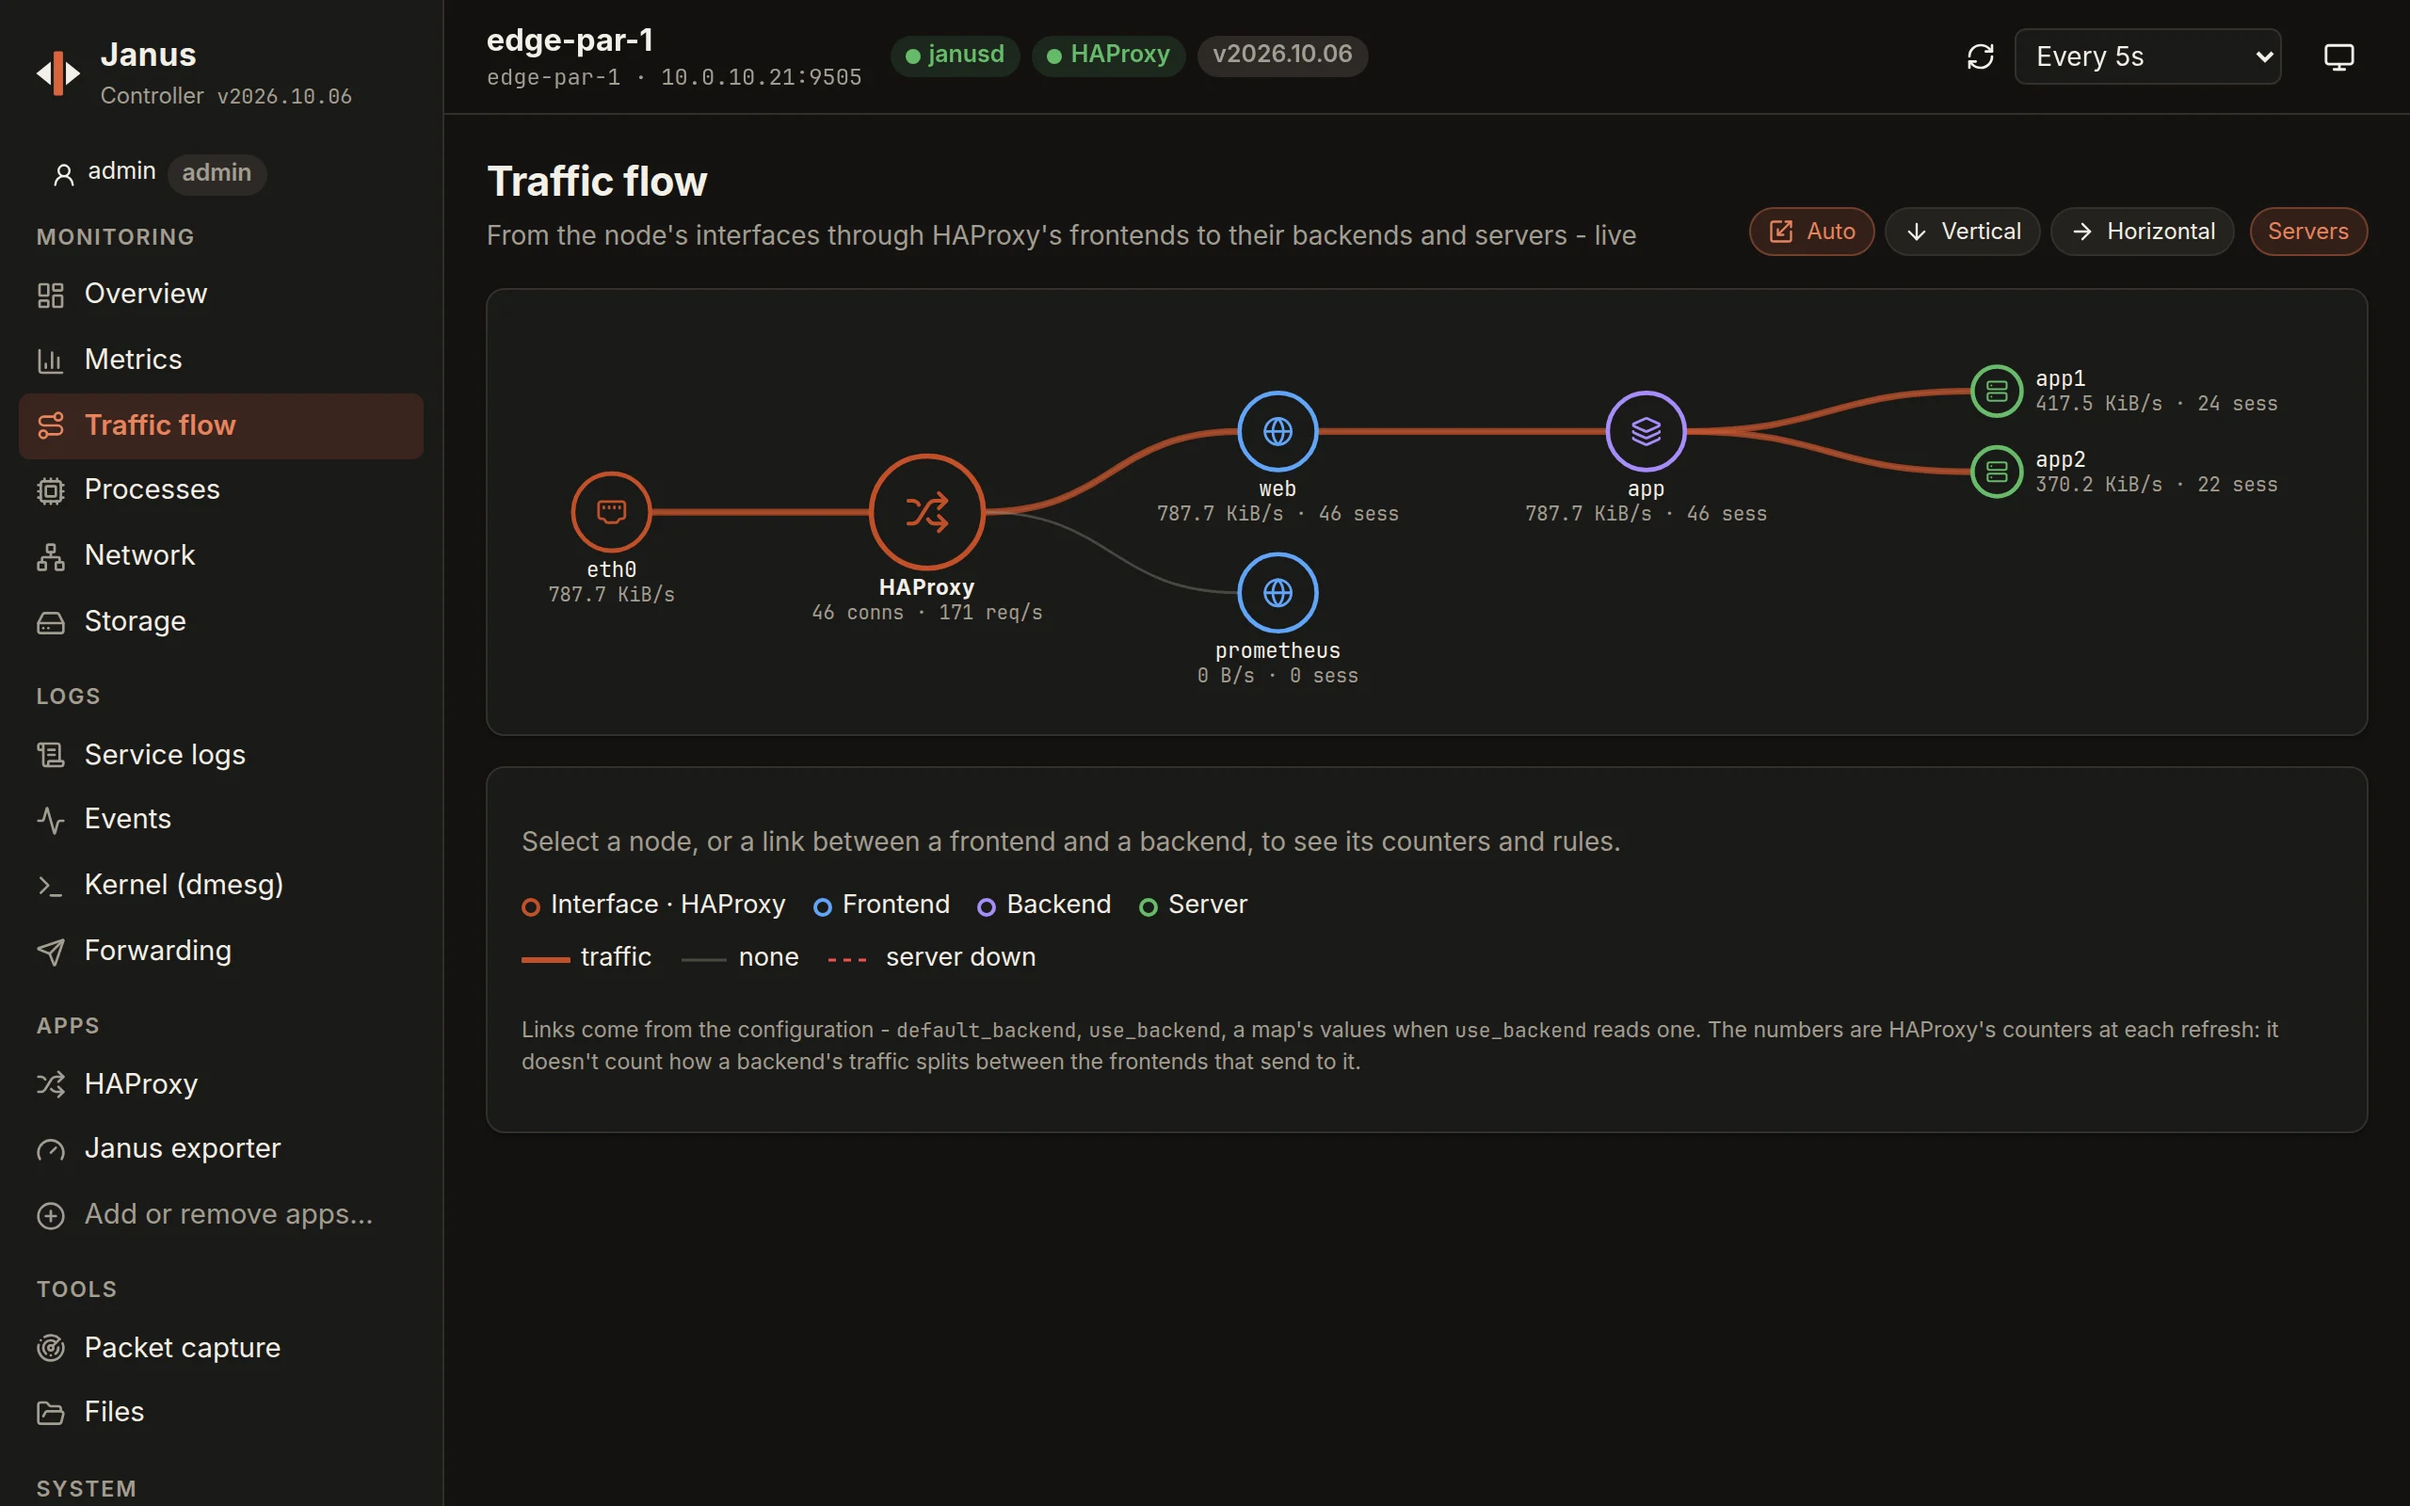
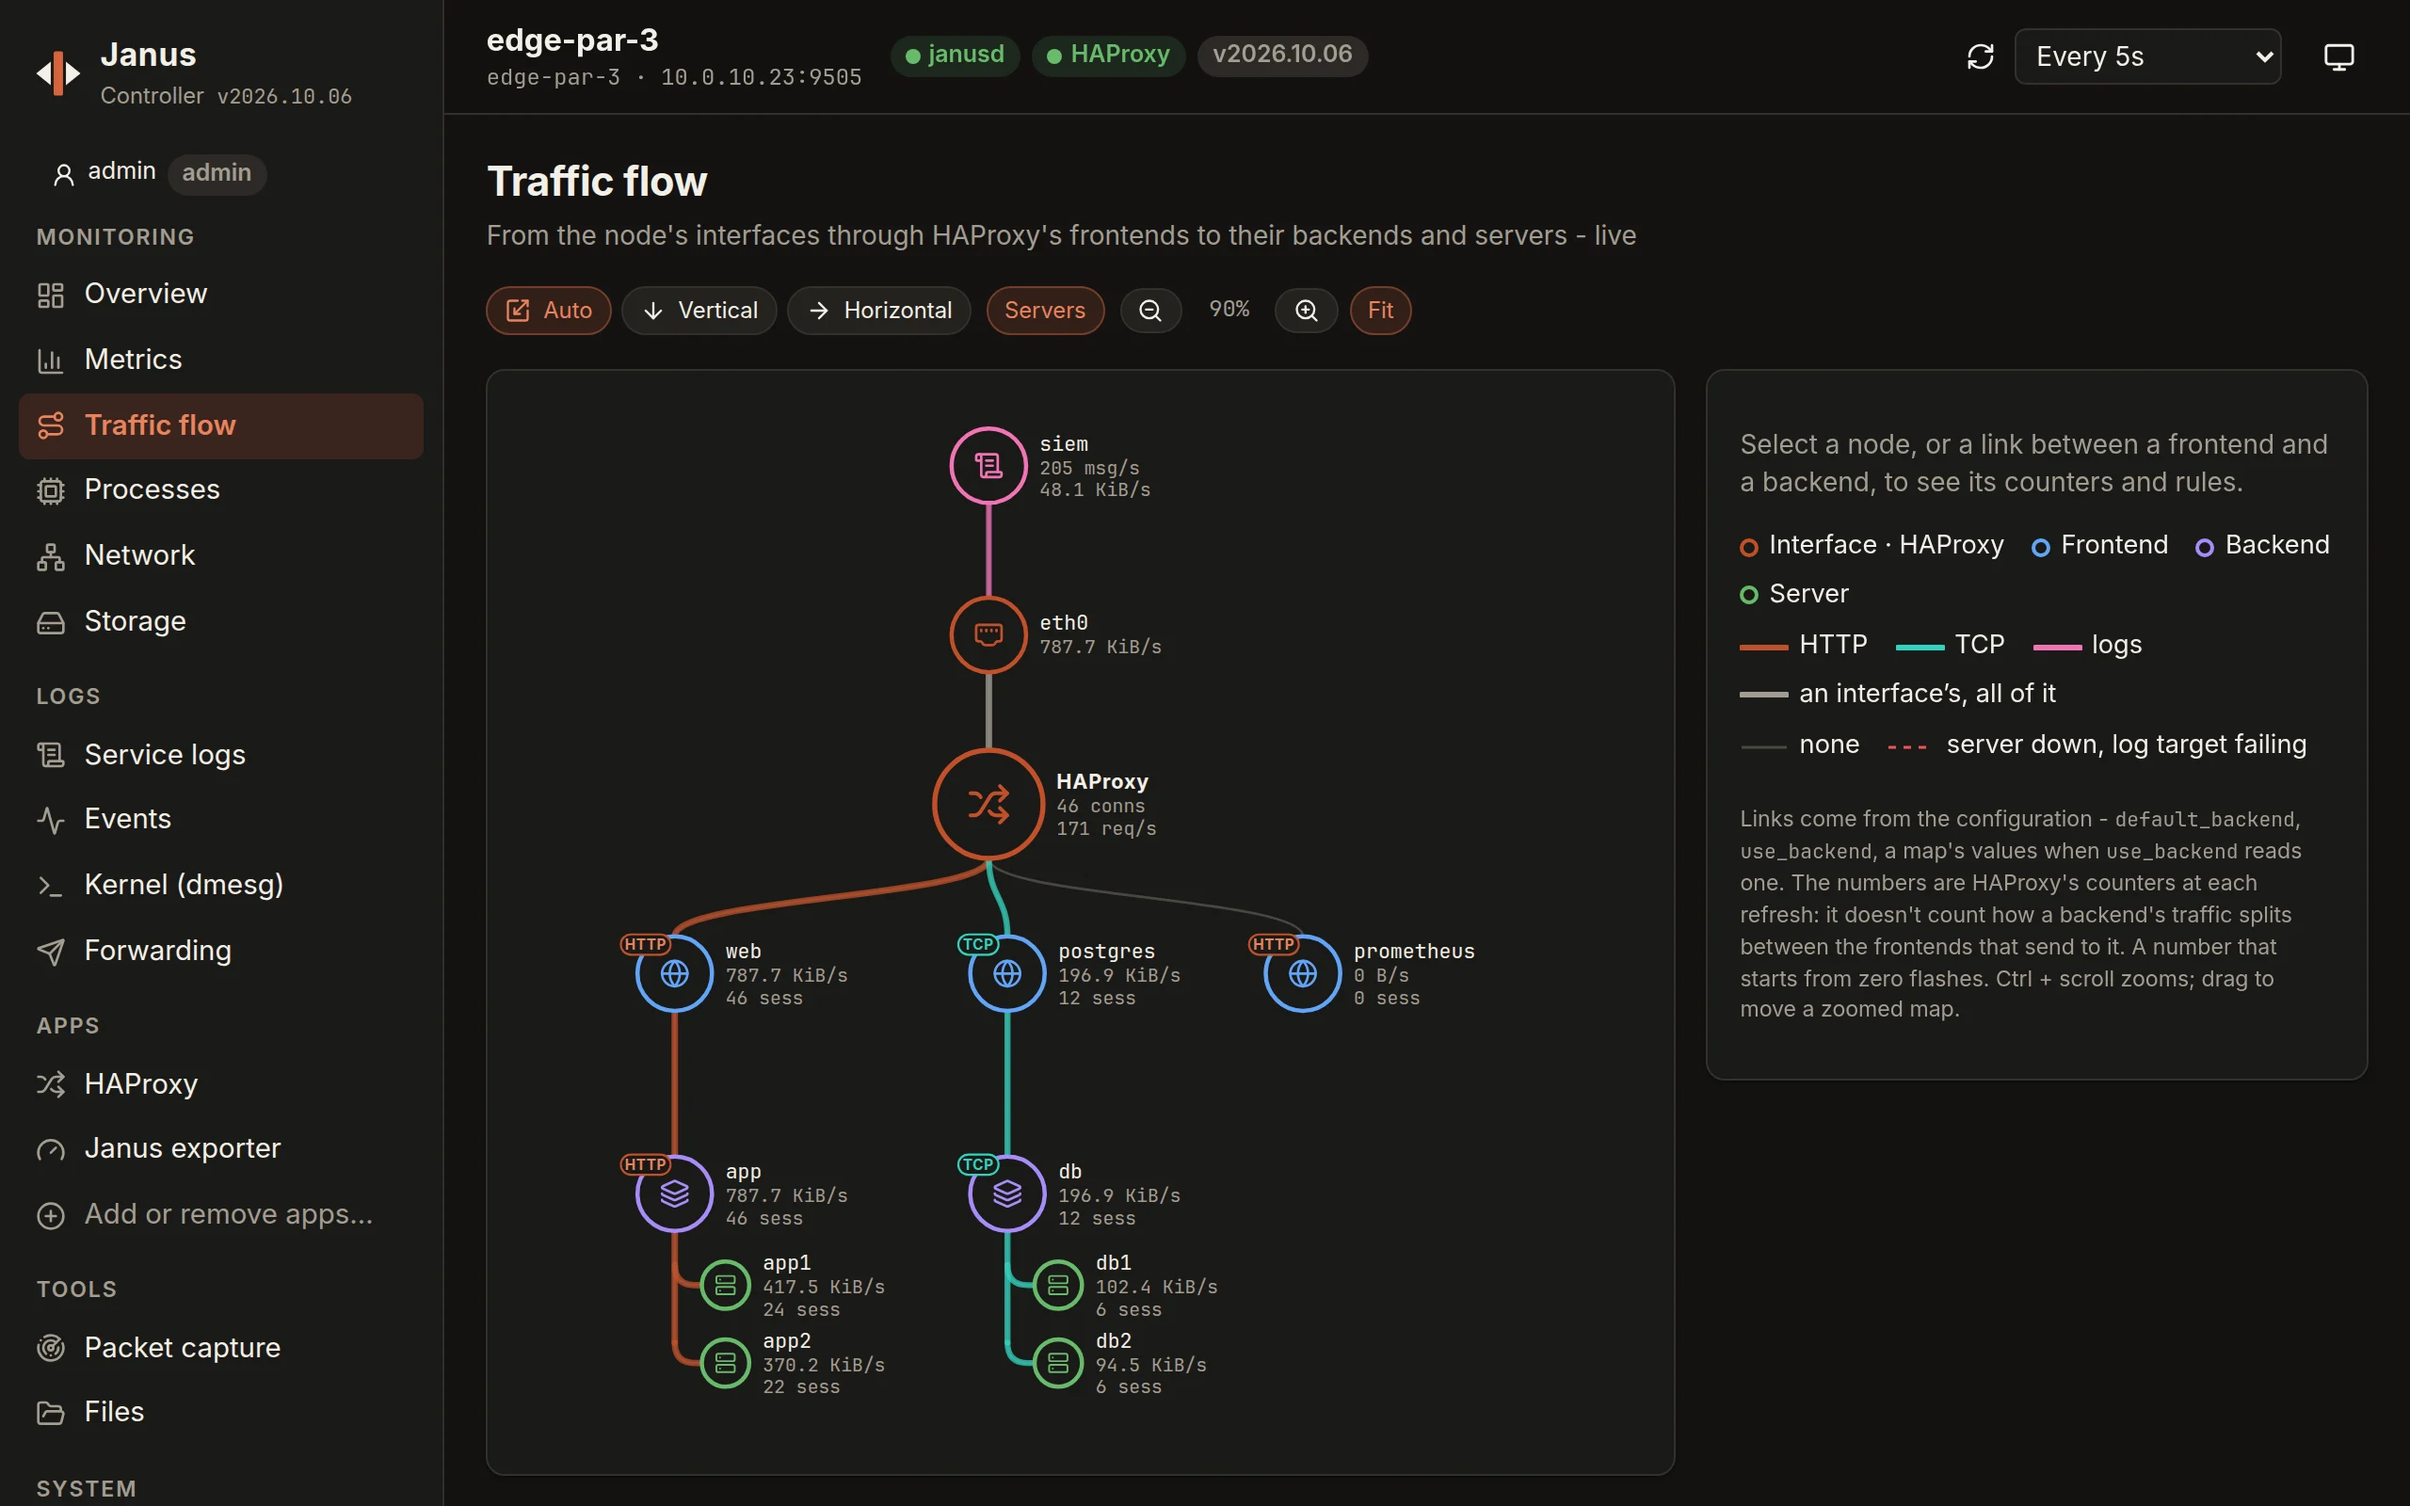
docs: the Traffic flow's protocols, log targets, flash and zoom
haproxy-config.md and janusctl.md say what the map shows now - HTTP
and TCP apart, the log targets beyond the interface they go by, the
flash, the zoom; log-forwarding.md the status's bytes and VIA (and how
VIA is found), janus_logship_bytes_sent_total and the map; controller-
ui.md how the page does it, and make ui-preview under "Verifying a
change".

The screenshots: the web one is edge-par-3's now - web.cfg plus a TCP
frontend, its logs sent to app1's syslog (an HAProxy log-forward
section in hack/docs-screenshots.sh), the target's counters made up on
the same series as the rest; edge-par-1's pages, the others' shots,
didn't move. janusctl tui's has a SIEM target and the modes.

diff --git a/docs/controller-ui.md b/docs/controller-ui.md
@@ -435,7 +435,34 @@ resolves is said in the frontend's details. Links pulse where traffic
 goes (the more bytes, the thicker and faster - drawn still under
 `prefers-reduced-motion`); a backend fed by several frontends has its
 traffic on each link at most the smaller side's, as HAProxy doesn't
-count the split. Hovering a node or link brings its paths forward;
+count the split. A link's colour is its protocol's - HTTP the accent,
+TCP `--flow-tcp`, logs `--flow-log` (tokens of `node.css`, each 3:1 on
+the surface in both themes, the badges' text 4.5:1) - from HAProxy's
+`mode` in `show stat`: a frontend's up to it, a backend's from its
+frontend on (a TCP frontend may hand its connections to an HTTP
+backend); an interface's link, all of its traffic, is neutral. A
+frontend or backend wears its mode as a badge at its ring's top left,
+where no link comes in nor label goes. The log targets
+(`/api/log-forwarding`, at the refresh interval, records and bytes a
+second from `sent` and `bytes_sent`) sit beyond the interfaces - a
+column left of them, a row above them top to bottom, only when the node
+has some, so a map without them is the one it was - each linked to the
+interface its traffic leaves by (the node's `interface`: the kernel's
+route to the target's connection), its pulse going out of the node; a
+target no interface on the map says (not connected yet, a node older
+than that field) is drawn unlinked, its details saying why. A number
+that starts from zero - a node's traffic, sessions, requests,
+connections, records - flashes (`figures` and `risen` in `flow.js`,
+`useFlashes`): a ring widening off the node, the number in the accent
+a moment, its link lit; CSS animations replayed by a new key, only the
+colour under `prefers-reduced-motion`; a number unknown before (the
+first sample, a counter that went back) never flashes. Ctrl (or ⌘) +
+scroll zooms the map - a trackpad's pinch too - around the pointer
+(a non-passive `wheel` listener on the card: a scroll alone still
+scrolls the page), from 30 % to 400 % of its size, as do the − and +
+buttons; zoomed, the map scrolls in its card, as tall as the window,
+and the mouse drags it; **Fit** is back to `arrange`'s size, as is a
+change of orientation. Hovering a node or link brings its paths forward;
 selecting one shows its counters and rules in the side panel - a
 server's Ready/Drain/Maint (`ServerStateButtons`, shared with HAProxy ›
 Backends). Without `HAProxyService/GetConfig` (a grant narrowed to other
@@ -598,6 +625,17 @@ turn, and the step waited for is written under it.
    `WebAuthn.addVirtualAuthenticator`).
 
    Look at the screenshots, not only at the absence of errors.
+
+   `make ui-preview` (`hack/ui-preview.sh`) sets all of that up at once,
+   to look at a page or a `janusctl tui` screen yourself: the Controller
+   and janusd built from the tree, three `local-dev` nodes under traffic
+   that comes and goes - HTTP and TCP frontends - sending their logs to
+   rsyslog and Elasticsearch (edge-1 through two interfaces), the
+   Controller on `https://127.0.0.1:18443` (`ssh -N -L
+   18443:127.0.0.1:18443 HOST` from another machine), its account and
+   the `janusctl login` printed. `hack/ui-preview.sh reload` after a
+   change (the binaries built again, the Controller and nodes restarted,
+   their state kept), `down` to remove it.
 4. Anything the `local-dev` container can't show (dmesg, A/B slots,
    reboot, SELinux) gets checked against a real node booted from
    `build/rootfs/disk.img` under QEMU/OVMF.

diff --git a/docs/janusctl.md b/docs/janusctl.md
@@ -139,8 +139,15 @@ shows the other way and,
 pressed again, goes back to that choice (the options menu's **Traffic
 flow** keeps one way or the other); `s` hides the servers. Which
 frontend sends where is read from the configuration and the maps a
-`use_backend` reads. A link carrying traffic runs, a link to a server
-down is dashed red, a backend no rule names is a hollow ○. The arrows
+`use_backend` reads. A link carrying traffic runs, in its protocol's
+colour - HTTP the accent, TCP its own - and each frontend and backend
+has its mode (`http`, `tcp`) after its name; a link to a server down is
+dashed red, a backend no rule names is a hollow ○. Beyond the
+interfaces, the node's log targets - rsyslog, Elasticsearch: records
+and bytes a second - each linked to the interface its logs leave by,
+its line running out of the node (a target failing is dashed red, one
+no interface on the map is the way to, hollow). A number that starts
+from zero lights up a moment. The arrows
 move a cursor along the map - right (or down, top to bottom) follows
 the traffic, across goes along a level -: the paths through the node
 under it come forward, its counters show beside the map (below it,
@@ -151,7 +158,7 @@ goes back. Without the right to read the configuration
 (`HAProxyService/GetConfig`), the map has the proxies but not which
 frontend sends to which backend, and says so.
 
-![janusctl tui's traffic flow, left to right: eth0, HAProxy, the frontends web and prometheus, web's link to the app backend and its servers app1 and app2; web under the cursor, its counters and its link to app - default_backend app - below the map](assets/screenshots/janusctl-tui-flow-light.webp)
+![janusctl tui's traffic flow, top to bottom: the log target siem above eth0, its records and bytes a second, then HAProxy, the frontends web and prometheus marked http, web's link to the app backend and its servers app1 and app2; web under the cursor, its counters and its link to app - default_backend app - below the map](assets/screenshots/janusctl-tui-flow-light.webp)
 
 It opens on Janus's logo while the nodes first answer, as bpytop does:
 the logo's orange bar fills up with the calls answered (`12/18`), its

diff --git a/docs/guide/log-forwarding.md b/docs/guide/log-forwarding.md
@@ -57,7 +57,7 @@ A configuration lists the targets:
 
 ```sh
 janusctl -n lb1 system log-forwarding set syslog.json   # applied at once, kept on STATE
-janusctl -n lb1 system log-forwarding status            # each target: sent, dropped, waiting, the last error
+janusctl -n lb1 system log-forwarding status            # each target: sent, bytes, dropped, waiting, its interface, the last error
 janusctl -n lb1 system log-forwarding test nas          # one record now - or why it can't
 janusctl -n lb1 system log-forwarding get               # the configuration, without its secrets
 ```
@@ -347,9 +347,18 @@ error too: `docker logs` and Docker's own logging drivers still see it.
 ## Watching it
 
 `janusctl system log-forwarding status` - each target's state (`ok`,
-`failing`), records sent, dropped, waiting, the last error. A target
+`failing`), records sent and the bytes they took (syslog messages with
+their framing, Elasticsearch request bodies as sent - gzipped when the
+target says so), dropped, waiting, the interface its logs leave by
+(`VIA`: the kernel's route to the server the target is connected to,
+from the address it's connected from - so a policy route or a VRRP
+address are what the kernel says, not a guess), the last error. A target
 failing for 30 seconds is said so in the event log
 (`logship.failing`, then `logship.recovered`) and janusd's log, and in
 the [metrics](../metrics.md): `janus_logship_target_up`,
-`janus_logship_records_dropped_total`; the Grafana dashboard's *Kernel
-and STATE* tile counts the targets failing and the records lost.
+`janus_logship_records_dropped_total`, `janus_logship_bytes_sent_total`;
+the Grafana dashboard's *Kernel and STATE* tile counts the targets
+failing and the records lost. The node's **Traffic flow** (the
+Controller's Monitoring › Traffic flow, `janusctl tui`'s `f`) draws each
+target beyond the interface it goes by, with its records and bytes a
+second.

diff --git a/docs/haproxy-config.md b/docs/haproxy-config.md
@@ -21,12 +21,17 @@ the node's interfaces, HAProxy, each frontend linked to the backends its
 when `use_backend` reads one - and each backend's servers, with their
 traffic, sessions and state, as big as the window allows - left to
 right, the labels beside the nodes for a configuration with many
-backends, or top to bottom when that's what fits. Select a frontend to
-see the rules - a
-map's keys included - behind each of its links, or a server to set its
-state:
+backends, or top to bottom when that's what fits. HTTP and TCP traffic
+have their own colours, and each frontend and backend says its mode; a
+number that starts from zero flashes. Where the node sends its logs
+([log forwarding](guide/log-forwarding.md)) shows beyond the
+interfaces: each target, its records and bytes a second, linked to the
+interface its logs actually leave by. Ctrl + scroll (or a pinch) zooms
+around the pointer, and a zoomed map is dragged with the mouse. Select a
+frontend to see the rules - a map's keys included - behind each of its
+links, or a server to set its state:
 
-![The Traffic flow, left to right: eth0, HAProxy, web.cfg's frontends web and prometheus, web linked to the app backend and its servers app1 and app2, the links carrying traffic highlighted](assets/screenshots/node-traffic-flow-light.webp)
+![The Traffic flow, top to bottom: the log target siem above eth0, its records and bytes a second, then HAProxy, the HTTP frontends web and prometheus and the TCP frontend postgres, web linked to the app backend and its servers app1 and app2, postgres to the db backend and its servers db1 and db2, each link in its protocol's colour](assets/screenshots/node-traffic-flow-light.webp)
 
 `janusctl tui` draws it in the terminal too: `f` on a node
 ([janusctl](janusctl.md#the-dashboard-janusctl-tui)).
